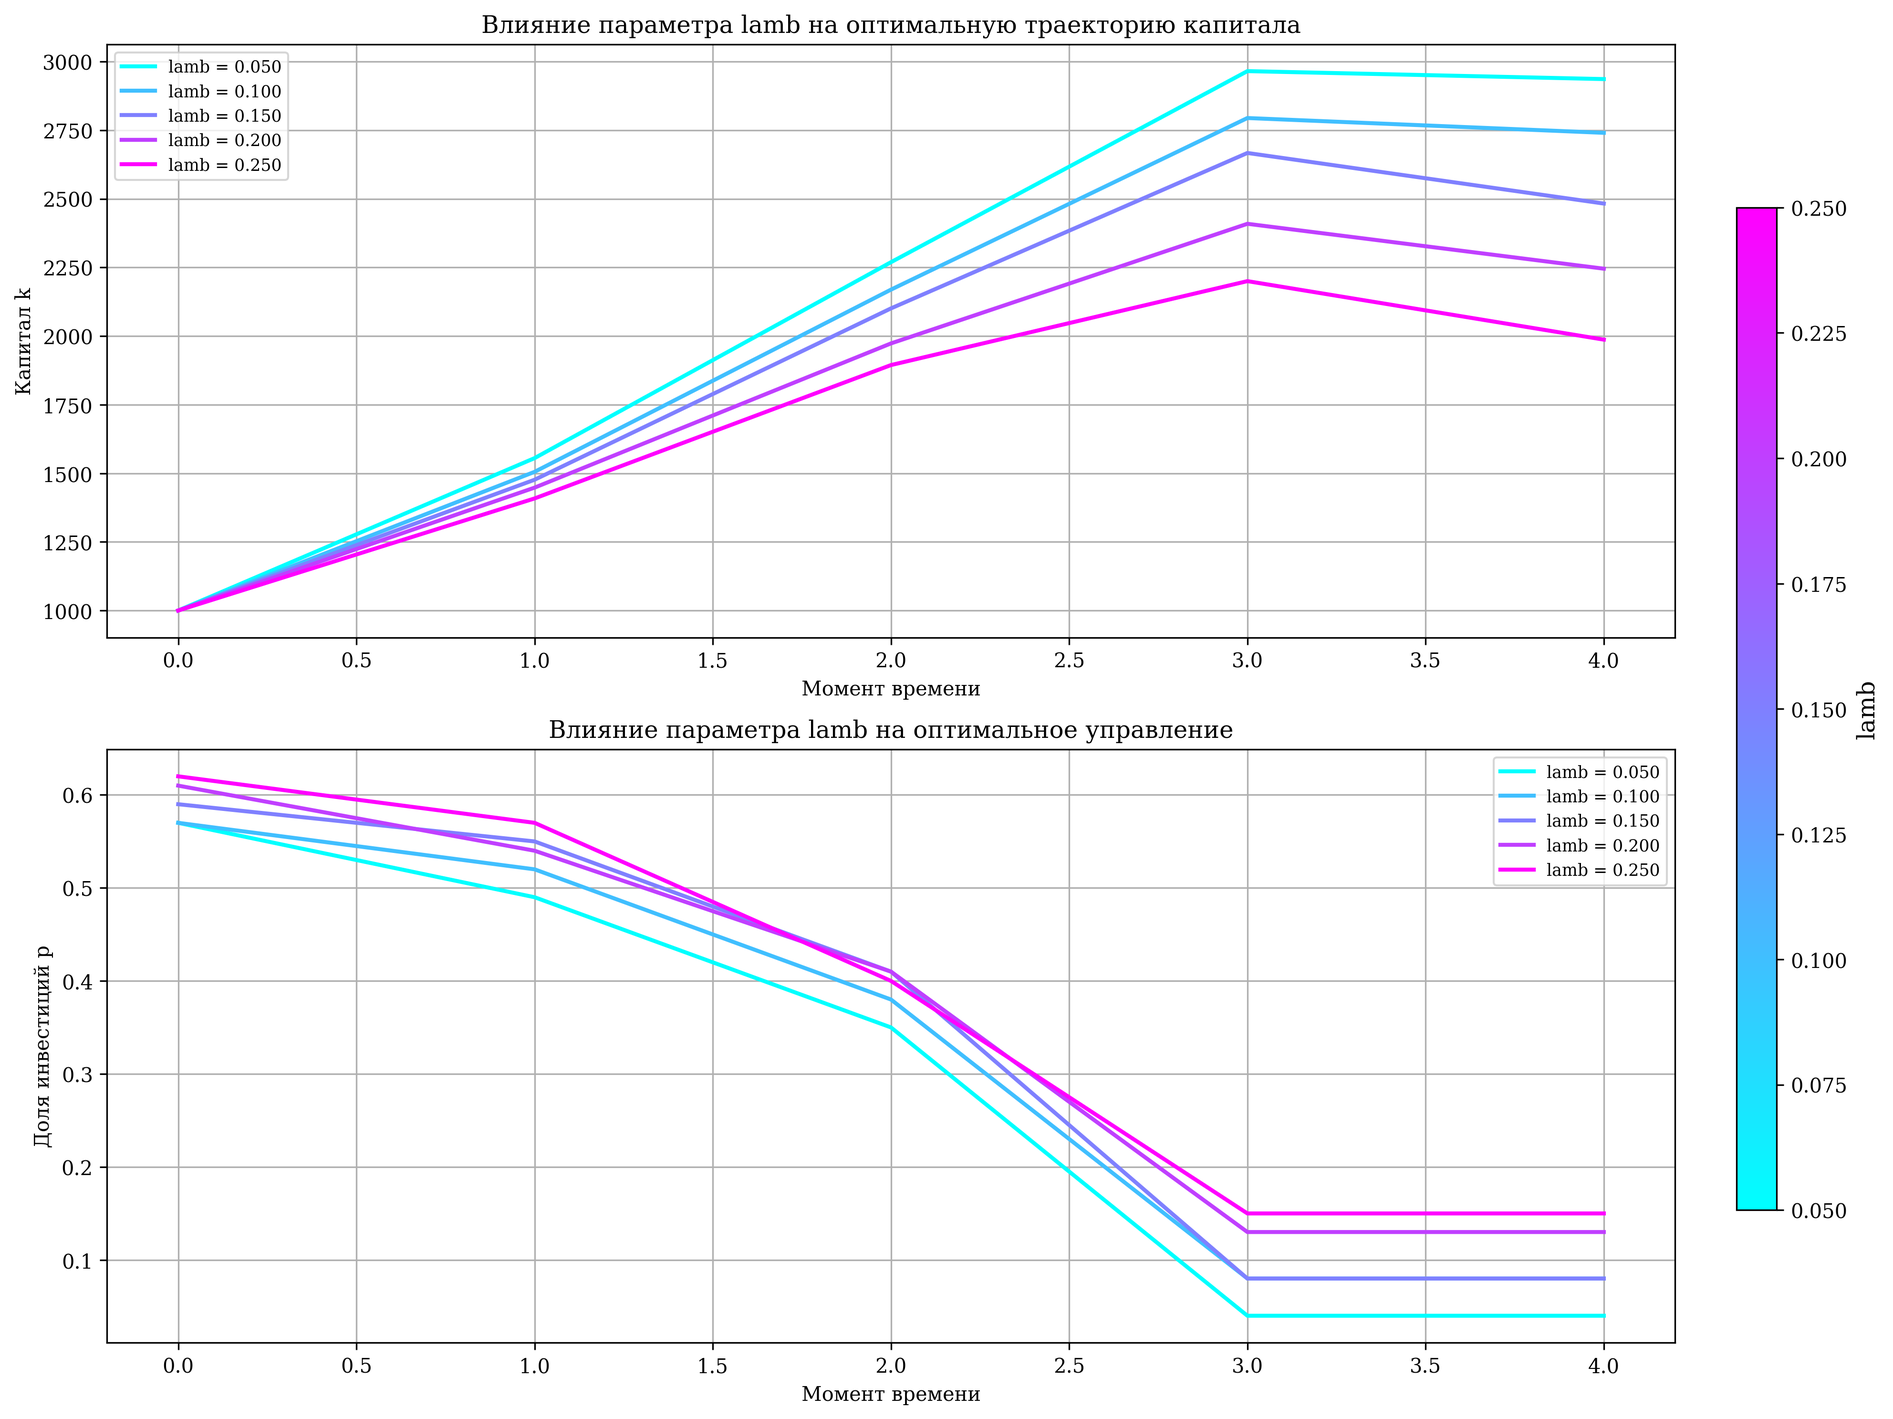
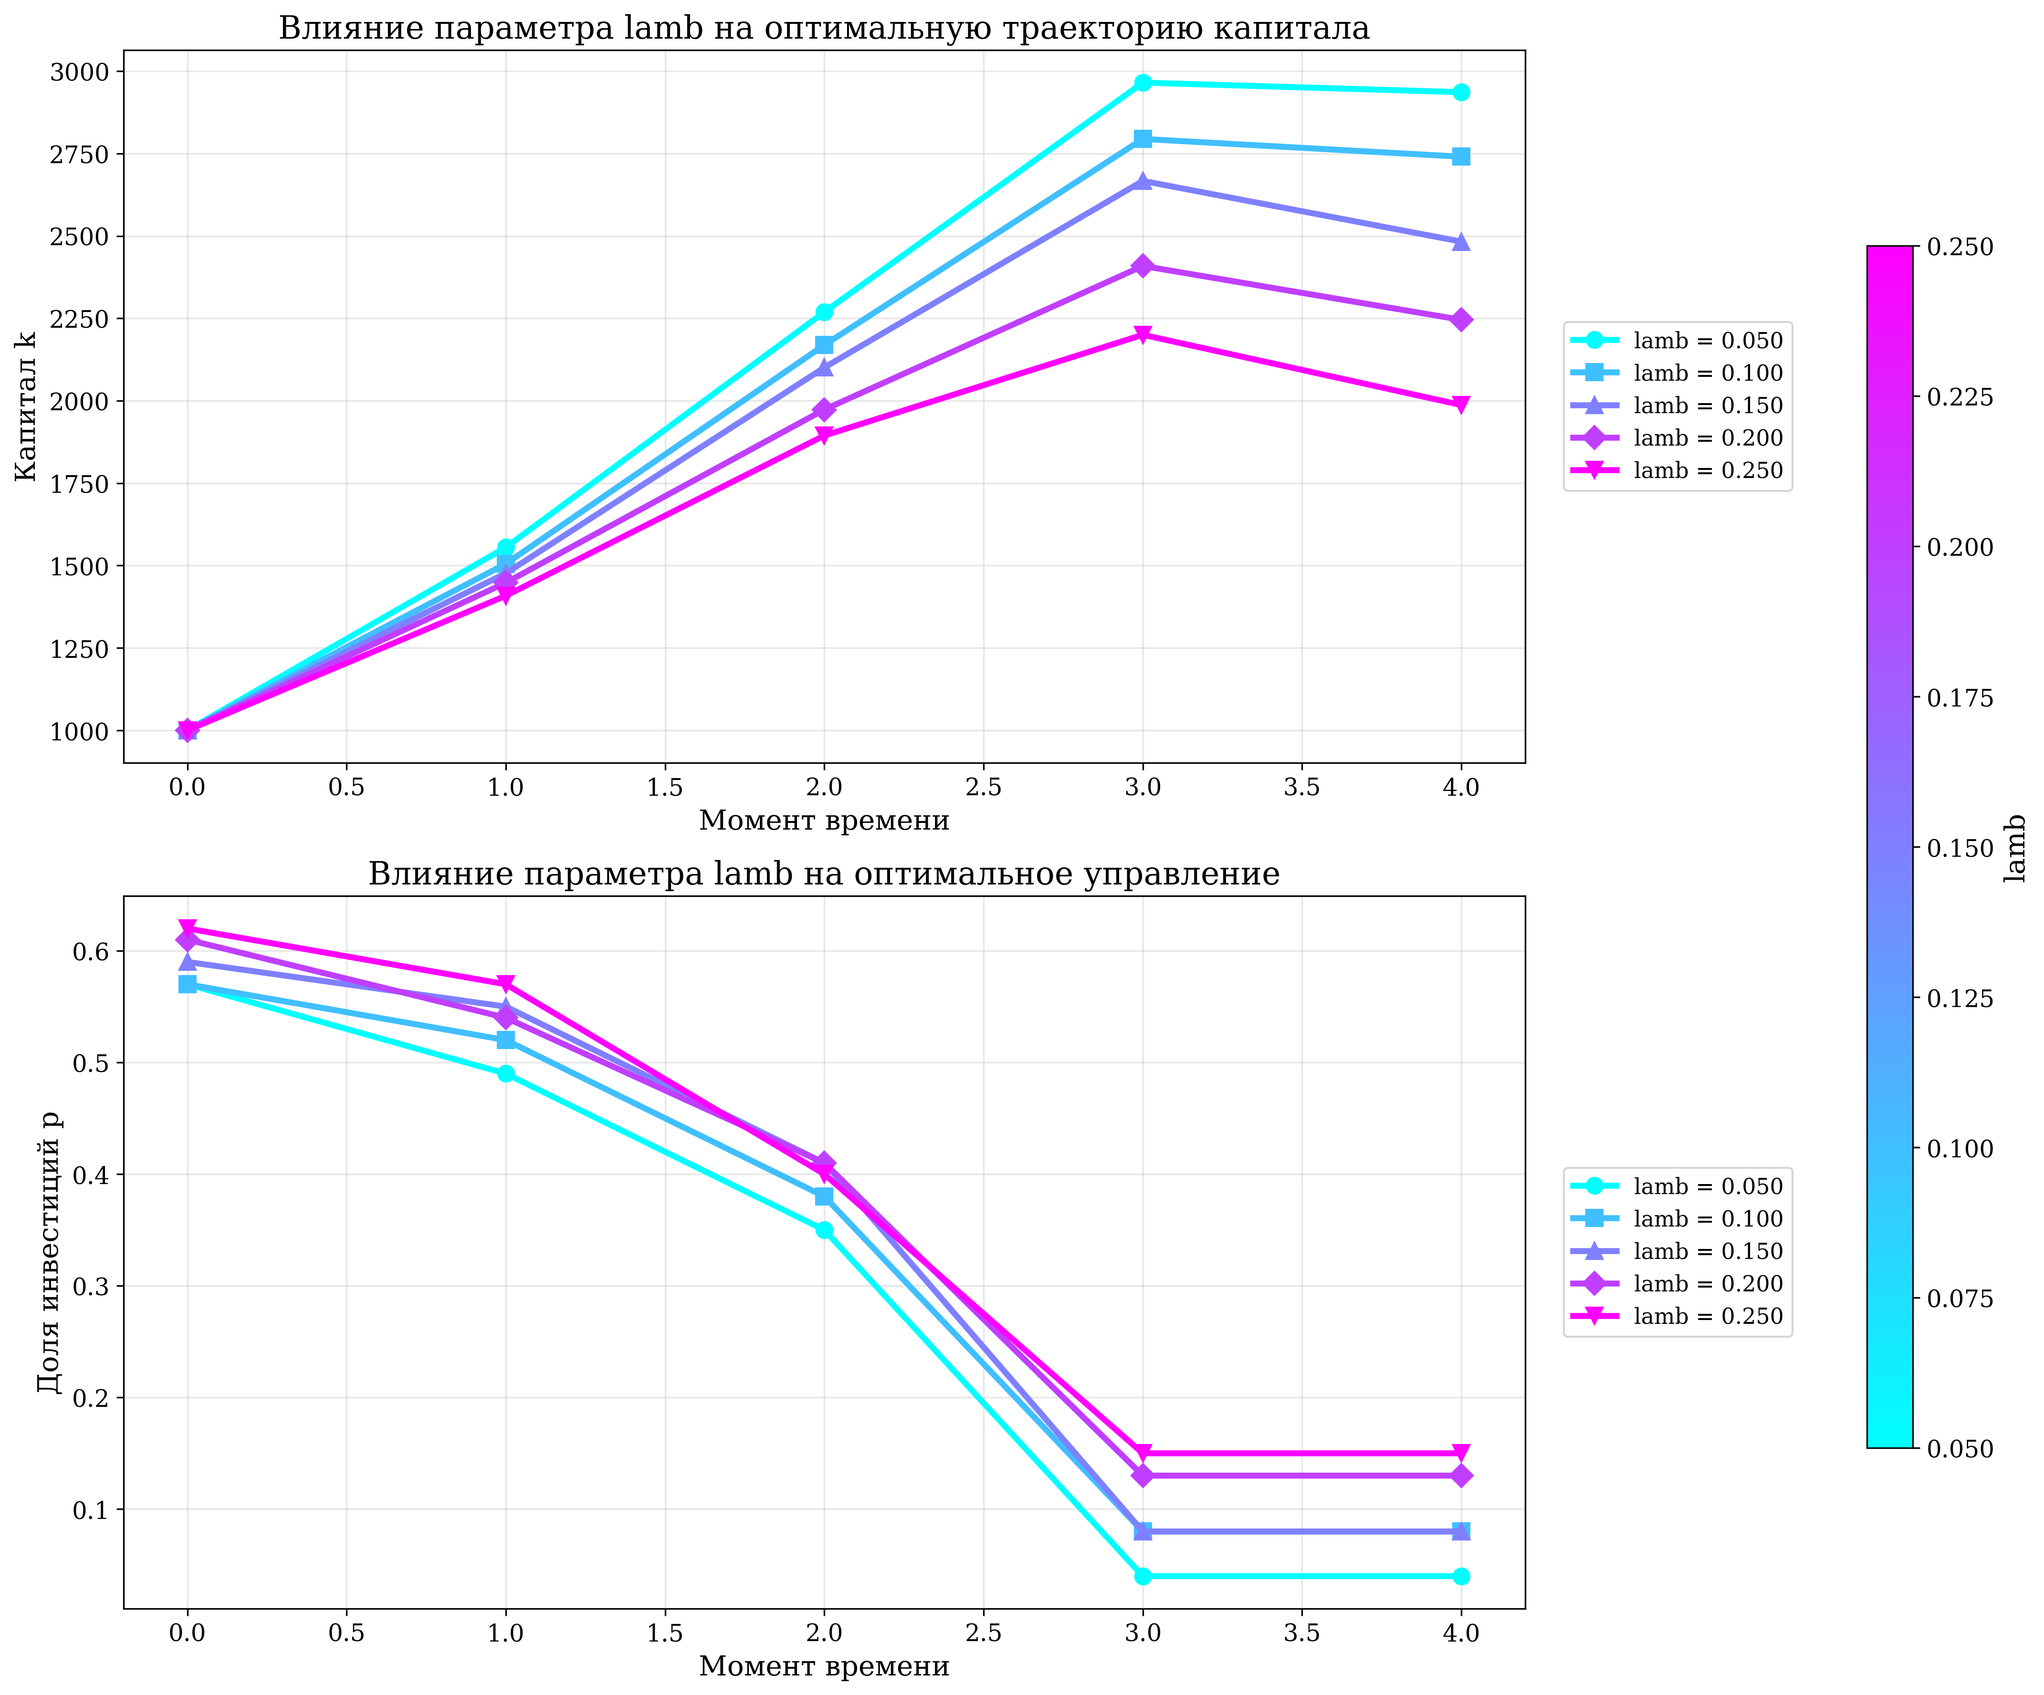
Edited graphics, added 50-steps configuration

diff --git a/Economic.py b/Economic.py
@@ -4,7 +4,15 @@ from matplotlib.cm import ScalarMappable
 from matplotlib.colors import Normalize
 import os
 
+# Настройка шрифтов и размера текста
 plt.rcParams['font.family'] = 'serif'
+plt.rcParams['font.size'] = 12
+plt.rcParams['axes.labelsize'] = 14
+plt.rcParams['axes.titlesize'] = 16
+plt.rcParams['xtick.labelsize'] = 12
+plt.rcParams['ytick.labelsize'] = 12
+plt.rcParams['legend.fontsize'] = 11
+plt.rcParams['figure.titlesize'] = 16
 
 # Исходные параметры (базовые)
 BASE_PARAMS = {
@@ -118,16 +126,22 @@ def solve_dp(params, show_graph=False):
         print(k_opt)
         print(p_opt)
 
-        plt.plot(k_opt)
-        plt.xlabel('i, момент времени')
-        plt.ylabel('k, значение удельного капитала')
-        plt.grid(True)
+        plt.figure(figsize=(10, 6))
+        plt.plot(k_opt, linewidth=2.5)
+        plt.xlabel('i, момент времени', fontsize=14)
+        plt.ylabel('k, значение удельного капитала', fontsize=14)
+        plt.title('Траектория капитала', fontsize=16)
+        plt.grid(True, alpha=0.3)
+        plt.tick_params(labelsize=12)
         plt.show()
 
-        plt.plot(p_opt)
-        plt.xlabel('i, момент времени')
-        plt.ylabel('p, доля продукта, направ. на инвестирование')
-        plt.grid(True)
+        plt.figure(figsize=(10, 6))
+        plt.plot(p_opt, linewidth=2.5)
+        plt.xlabel('i, момент времени', fontsize=14)
+        plt.ylabel('p, доля продукта, направ. на инвестирование', fontsize=14)
+        plt.title('Траектория управления', fontsize=16)
+        plt.grid(True, alpha=0.3)
+        plt.tick_params(labelsize=12)
         plt.show()
 
     return k_opt, p_opt
@@ -154,15 +168,18 @@ def analyze_parameter(param_name, param_values, base_params, print_results=True,
     norm = Normalize(vmin=min(param_values), vmax=max(param_values))
     cmap = plt.colormaps.get_cmap('cool')  # От красного (большие) к синему (маленькие)
 
-    # Создаем фигуру с двумя подграфиками и выделяем место для colorbar
-    fig, (ax1, ax2) = plt.subplots(2, 1, figsize=(14, 10))
-    # Добавляем место для colorbar справа
-    fig.subplots_adjust(right=0.85)
+    # Создаем фигуру с двумя подграфиками большего размера
+    fig, (ax1, ax2) = plt.subplots(2, 1, figsize=(16, 12))
+    # Добавляем место для colorbar и легенды справа
+    fig.subplots_adjust(right=0.8)
 
     # Словарь для хранения результатов
     results = {}
 
-    for param_value in param_values:
+    # Список маркеров для лучшего различения линий
+    markers = ['o', 's', '^', 'D', 'v', '<', '>', 'p', '*', 'h']
+
+    for idx, param_value in enumerate(param_values):
         # Модифицируем параметры
         params = base_params.copy()
         params[param_name] = param_value
@@ -181,39 +198,48 @@ def analyze_parameter(param_name, param_values, base_params, print_results=True,
         # Определяем цвет
         color = cmap(norm(param_value))
 
+        # Выбираем маркер (циклически)
+        marker = markers[idx % len(markers)]
+
         # Строим графики
         time_points = range(params['N'])
 
-        # График капитала
-        ax1.plot(time_points, k_opt, color=color, linewidth=2,
-                 label=f'{param_name} = {param_value:.3f}')
+        # График капитала с маркерами
+        ax1.plot(time_points, k_opt, color=color, linewidth=3,
+                marker=marker, markersize=8, markevery=1,
+                label=f'{param_name} = {param_value:.3f}')
 
-        # График управления
-        ax2.plot(time_points, p_opt, color=color, linewidth=2,
-                 label=f'{param_name} = {param_value:.3f}')
+        # График управления с маркерами
+        ax2.plot(time_points, p_opt, color=color, linewidth=3,
+                marker=marker, markersize=8, markevery=1,
+                label=f'{param_name} = {param_value:.3f}')
 
     # Настройка первого графика
-    ax1.set_xlabel('Момент времени')
-    ax1.set_ylabel('Капитал k')
-    ax1.set_title(f'Влияние параметра {param_name} на оптимальную траекторию капитала')
-    ax1.grid(True)
-    ax1.legend(loc='best', fontsize='small')
+    ax1.set_xlabel('Момент времени', fontsize=14)
+    ax1.set_ylabel('Капитал k', fontsize=14)
+    ax1.set_title(f'Влияние параметра {param_name} на оптимальную траекторию капитала', fontsize=16)
+    ax1.grid(True, alpha=0.3)
+    ax1.tick_params(labelsize=12)
+    # Размещаем легенду справа от графика
+    ax1.legend(loc='center left', bbox_to_anchor=(1.02, 0.5), fontsize=11)
 
     # Настройка второго графика
-    ax2.set_xlabel('Момент времени')
-    ax2.set_ylabel('Доля инвестиций p')
-    ax2.set_title(f'Влияние параметра {param_name} на оптимальное управление')
-    ax2.grid(True)
-    ax2.legend(loc='best', fontsize='small')
+    ax2.set_xlabel('Момент времени', fontsize=14)
+    ax2.set_ylabel('Доля инвестиций p', fontsize=14)
+    ax2.set_title(f'Влияние параметра {param_name} на оптимальное управление', fontsize=16)
+    ax2.grid(True, alpha=0.3)
+    ax2.tick_params(labelsize=12)
+    ax2.legend(loc='center left', bbox_to_anchor=(1.02, 0.5), fontsize=11)
 
-    # Добавляем цветовую шкалу справа от графиков
-    cbar_ax = fig.add_axes([0.87, 0.15, 0.02, 0.7])  # [left, bottom, width, height]
+    # Добавляем цветовую шкалу справа от графиков (немного смещаем влево из-за легенды)
+    cbar_ax = fig.add_axes([0.82, 0.15, 0.02, 0.7])  # [left, bottom, width, height]
     sm = ScalarMappable(norm=norm, cmap=cmap)
     sm.set_array([])
     cbar = fig.colorbar(sm, cax=cbar_ax)
-    cbar.set_label(param_name, fontsize=12)
+    cbar.set_label(param_name, fontsize=14)
+    cbar.ax.tick_params(labelsize=12)
 
-    plt.tight_layout(rect=[0, 0, 0.85, 1])  # Оставляем место для colorbar
+    plt.tight_layout(rect=[0, 0, 0.8, 1])  # Оставляем место для colorbar и легенды
 
     # Сохраняем график, если требуется
     if save_graphs:
@@ -221,9 +247,9 @@ def analyze_parameter(param_name, param_values, base_params, print_results=True,
         if not os.path.exists('graphs'):
             os.makedirs('graphs')
 
-        # Сохраняем в файл
+        # Сохраняем в файл с высоким разрешением
         filename = f'graphs/analysis_{param_name}.png'
-        plt.savefig(filename, dpi=300, bbox_inches='tight')
+        plt.savefig(filename, dpi=300, bbox_inches='tight', facecolor='white')
         print(f"График сохранен в файл: {filename}")
 
     plt.show()
@@ -256,15 +282,18 @@ def analyze_N(N_values, base_params, print_results=True, save_graphs=True):
     # Для N нужно также адаптировать другие параметры
     results = {}
 
-    # Создаем фигуру с двумя подграфиками и выделяем место для colorbar
-    fig, (ax1, ax2) = plt.subplots(2, 1, figsize=(14, 10))
-    # Добавляем место для colorbar справа
-    fig.subplots_adjust(right=0.85)
+    # Создаем фигуру с двумя подграфиками большего размера
+    fig, (ax1, ax2) = plt.subplots(2, 1, figsize=(16, 12))
+    # Добавляем место для colorbar и легенды справа
+    fig.subplots_adjust(right=0.8)
 
     norm = Normalize(vmin=min(N_values), vmax=max(N_values))
     cmap = plt.colormaps.get_cmap('cool')
 
-    for N_value in N_values:
+    # Список маркеров для лучшего различения линий
+    markers = ['o', 's', '^', 'D', 'v', '<', '>', 'p', '*', 'h']
+
+    for idx, N_value in enumerate(N_values):
         params = base_params.copy()
         params['N'] = N_value
 
@@ -277,33 +306,39 @@ def analyze_N(N_values, base_params, print_results=True, save_graphs=True):
         results[N_value] = {'k': k_opt, 'p': p_opt}
 
         color = cmap(norm(N_value))
+        marker = markers[idx % len(markers)]
         time_points = range(N_value)
 
-        ax1.plot(time_points, k_opt, color=color, linewidth=2,
-                 label=f'N = {N_value}')
-        ax2.plot(time_points, p_opt, color=color, linewidth=2,
-                 label=f'N = {N_value}')
+        ax1.plot(time_points, k_opt, color=color, linewidth=3,
+                marker=marker, markersize=8, markevery=1,
+                label=f'N = {N_value}')
+        ax2.plot(time_points, p_opt, color=color, linewidth=3,
+                marker=marker, markersize=8, markevery=1,
+                label=f'N = {N_value}')
 
-    ax1.set_xlabel('Момент времени')
-    ax1.set_ylabel('Капитал k')
-    ax1.set_title('Влияние временного горизонта N на траекторию капитала')
-    ax1.grid(True)
-    ax1.legend(loc='best', fontsize='small')
+    ax1.set_xlabel('Момент времени', fontsize=14)
+    ax1.set_ylabel('Капитал k', fontsize=14)
+    ax1.set_title('Влияние временного горизонта N на траекторию капитала', fontsize=16)
+    ax1.grid(True, alpha=0.3)
+    ax1.tick_params(labelsize=12)
+    ax1.legend(loc='center left', bbox_to_anchor=(1.02, 0.5), fontsize=11)
 
-    ax2.set_xlabel('Момент времени')
-    ax2.set_ylabel('Доля инвестиций p')
-    ax2.set_title('Влияние временного горизонта N на оптимальное управление')
-    ax2.grid(True)
-    ax2.legend(loc='best', fontsize='small')
+    ax2.set_xlabel('Момент времени', fontsize=14)
+    ax2.set_ylabel('Доля инвестиций p', fontsize=14)
+    ax2.set_title('Влияние временного горизонта N на оптимальное управление', fontsize=16)
+    ax2.grid(True, alpha=0.3)
+    ax2.tick_params(labelsize=12)
+    ax2.legend(loc='center left', bbox_to_anchor=(1.02, 0.5), fontsize=11)
 
     # Добавляем цветовую шкалу справа от графиков
-    cbar_ax = fig.add_axes([0.87, 0.15, 0.02, 0.7])  # [left, bottom, width, height]
+    cbar_ax = fig.add_axes([0.82, 0.15, 0.02, 0.7])  # [left, bottom, width, height]
     sm = ScalarMappable(norm=norm, cmap=cmap)
     sm.set_array([])
     cbar = fig.colorbar(sm, cax=cbar_ax)
-    cbar.set_label('N', fontsize=12)
+    cbar.set_label('N', fontsize=14)
+    cbar.ax.tick_params(labelsize=12)
 
-    plt.tight_layout(rect=[0, 0, 0.85, 1])  # Оставляем место для colorbar
+    plt.tight_layout(rect=[0, 0, 0.8, 1])  # Оставляем место для colorbar и легенды
 
     # Сохраняем график, если требуется
     if save_graphs:
@@ -311,15 +346,27 @@ def analyze_N(N_values, base_params, print_results=True, save_graphs=True):
         if not os.path.exists('graphs'):
             os.makedirs('graphs')
 
-        # Сохраняем в файл
+        # Сохраняем в файл с высоким разрешением
         filename = f'graphs/analysis_N.png'
-        plt.savefig(filename, dpi=300, bbox_inches='tight')
+        plt.savefig(filename, dpi=300, bbox_inches='tight', facecolor='white')
         print(f"График сохранен в файл: {filename}")
 
     plt.show()
 
     return results
 
+FAST_TEST_PARAMS_50 = {
+    'N': 50,
+    'lamb': 0.05,
+    'delta': 0.1,
+    'gam': 0.01,
+    'a_0': 100,
+    'k': 1.2,
+    'b': 0.8,
+    'p_maximize': 1,
+    'sigma_util': 1.5,
+    'a': 50
+}
 
 # Пример использования
 if __name__ == "__main__":
@@ -352,3 +399,10 @@ if __name__ == "__main__":
     N_values = [3, 5, 7, 9]
     print("\nАнализ влияния временного горизонта N...")
     results_N = analyze_N(N_values, BASE_PARAMS, save_graphs=True)
+
+    '''
+    print("Запуск оптимизации на 50 периодах...")
+    k_opt, p_opt = solve_dp(FAST_TEST_PARAMS_50, show_graph=True)
+    print(f"Финальный капитал: {k_opt[-1]:.2f}")
+    print(f"Средняя доля инвестиций: {np.mean(p_opt):.3f}")
+    '''
